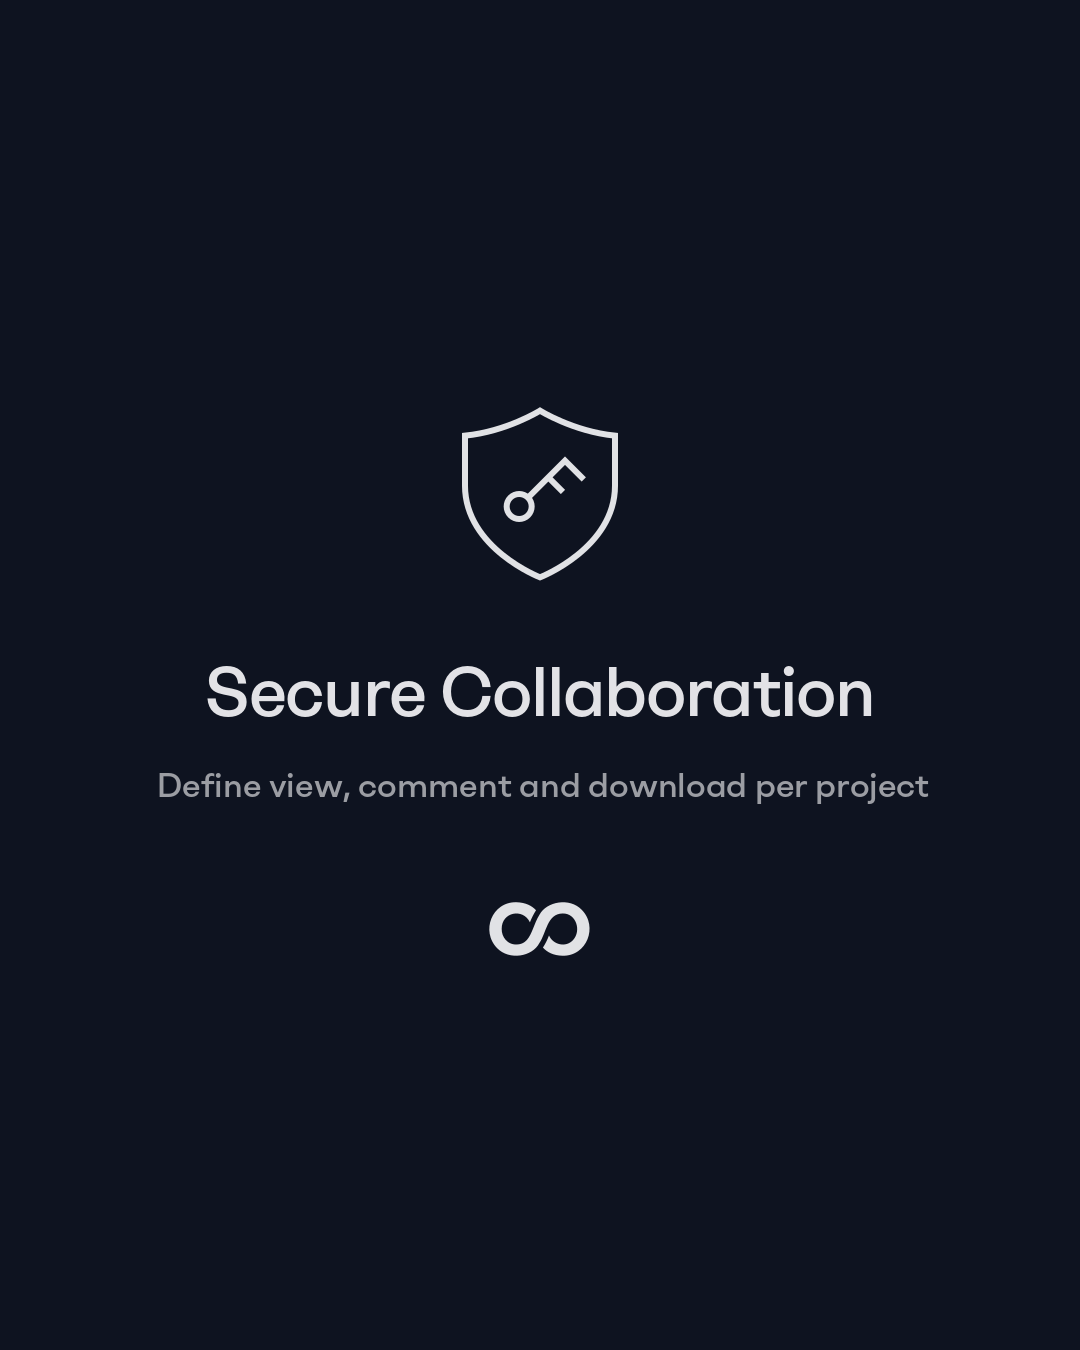
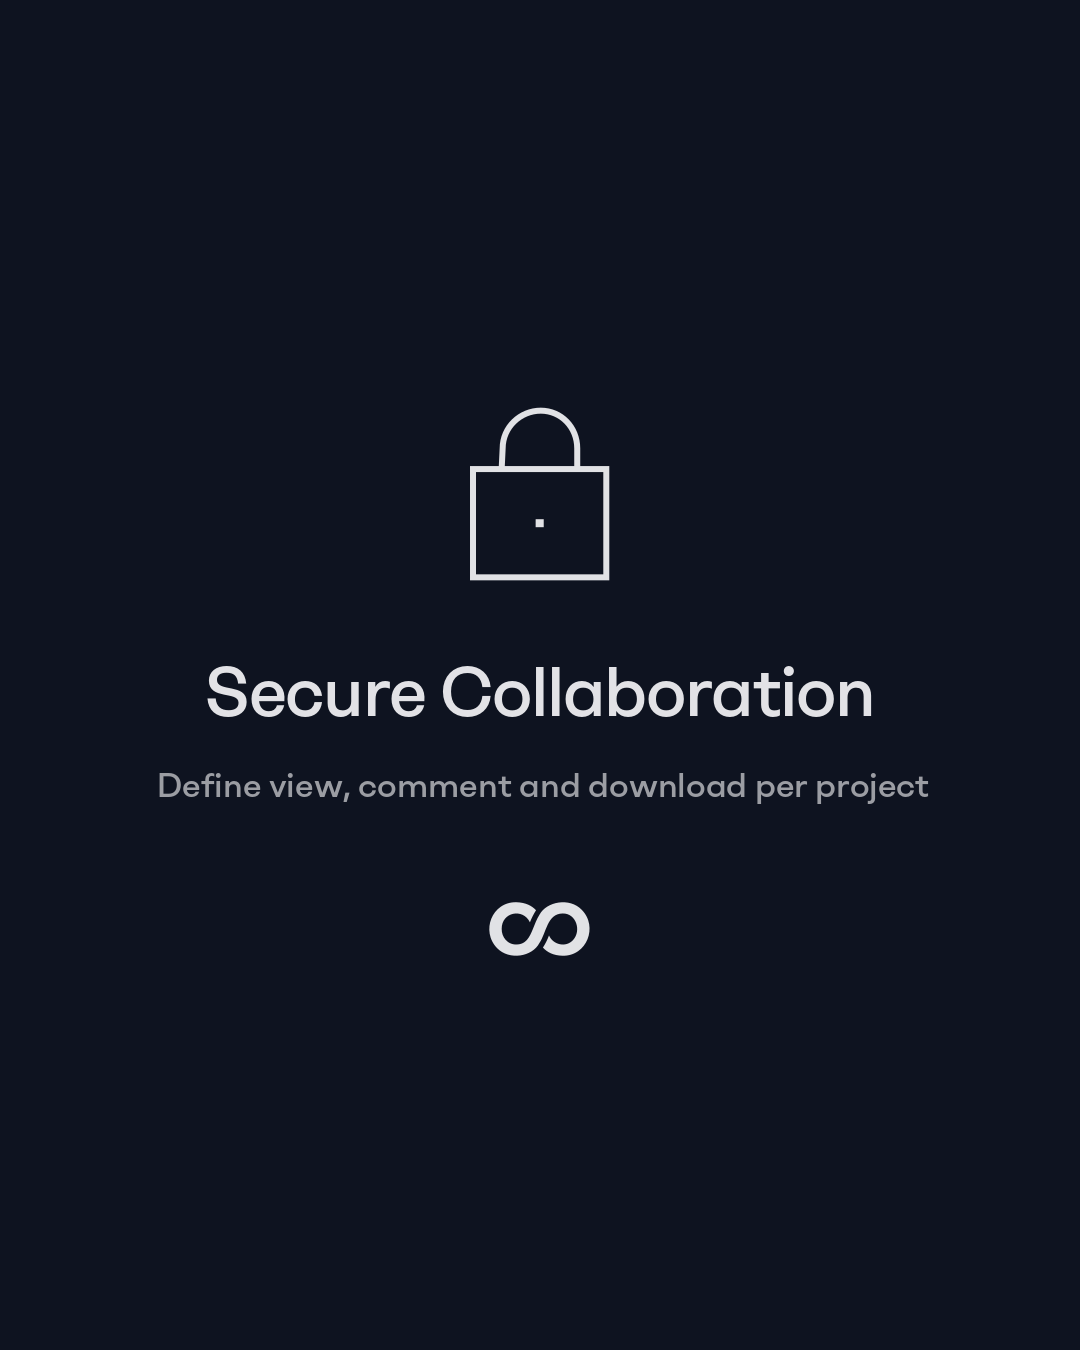
Renamed repo from quote cards to instagram cards
New: quotes + hacks

Changed region(s): [[0.4278, 0.3111, 0.5806, 0.4356], [0.4889, 0.28, 0.5194, 0.3111]]

diff --git a/README.md b/README.md
@@ -1,43 +1,55 @@
-# moodcase-quote-cards
+# moodcase-instagram-cards
 
-Public image host for moodcase Instagram voice-anchor (VA) quote cards.
+Public image host for moodcase Instagram cards — both voice-anchor (VA) quote
+cards and moodcase-hack (MH) cards.
 
-This repo exists for one reason: to give each quote-card PNG a stable public
-URL so it can be attached to a Buffer idea automatically. Buffer pulls post
-images by URL, and `raw.githubusercontent.com` serves these files directly.
+This repo exists for one reason: to give each card PNG a stable public URL so it
+can be attached to a Buffer idea automatically. Buffer pulls post images by URL,
+and `raw.githubusercontent.com` serves these files directly.
 
-**This repo is intentionally public** — it contains only finished quote-card
-images that are published to Instagram anyway. No strategy, voice, or product
-files live here. Those stay in the private `moodcase-content-hub` repo, which
-is where the cards are generated.
+**This repo is intentionally public** — it contains only finished card images
+that are published to Instagram anyway. No strategy, voice, or product files
+live here. Those stay in the private `moodcase-content-hub` repo, which is where
+the cards are generated.
 
 ## Folder convention
 
 A card's location tells you its Buffer status:
 
-- **Repo root** — a new card, generated but NOT yet pushed to Buffer.
-- **`_pushed/`** — the card has been pushed to the Buffer Idea Inbox. Once an
-  idea exists in Buffer, Buffer keeps its own copy of the image, so moving the
-  PNG here does not affect the idea.
+- **Quote cards** — repo root = staged (NOT yet pushed to Buffer); `_pushed/` =
+  already pushed to the Buffer Idea Inbox.
+- **Hack cards** — `hacks/` = staged (NOT yet pushed); `hacks/_pushed/` =
+  already pushed.
 
-The `instagram-quote-batch` task adds new cards at the root, pushes the Buffer
-idea, then moves the PNG into `_pushed/`.
+Once an idea exists in Buffer, Buffer keeps its own copy of the image, so moving
+the PNG into a `_pushed/` folder afterward does not affect the idea.
+
+The `instagram-quote-batch` task stages new quote cards (at the root), pushes the
+Buffer idea, then moves each PNG into `_pushed/`. Hack cards follow the same
+staged → pushed flow under `hacks/`.
 
 ## Contents
 
-18 quote slugs, each in two colorways:
+Each slug is produced in two colorways:
 
-- `quote-cloud-{slug}.png` — light (Cloud) variant
-- `quote-midnight-{slug}.png` — dark (Midnight) variant
+- `quote-cloud-{slug}.png` / `hack-cloud-{slug}.png` — light (Cloud) variant
+- `quote-midnight-{slug}.png` / `hack-midnight-{slug}.png` — dark (Midnight) variant
 
 ## URL pattern
 
-A card already pushed to Buffer (in `_pushed/`):
+Quote card already pushed to Buffer (in `_pushed/`):
 
 ```
-https://raw.githubusercontent.com/thez-dm/moodcase-quote-cards/main/_pushed/quote-cloud-{slug}.png
-https://raw.githubusercontent.com/thez-dm/moodcase-quote-cards/main/_pushed/quote-midnight-{slug}.png
+https://raw.githubusercontent.com/thez-dm/moodcase-instagram-cards/main/_pushed/quote-cloud-{slug}.png
+https://raw.githubusercontent.com/thez-dm/moodcase-instagram-cards/main/_pushed/quote-midnight-{slug}.png
 ```
 
-A brand-new card not yet pushed sits at the root (no `_pushed/` segment). The
-Buffer idea is created using the root URL, then the file is moved to `_pushed/`.
+A brand-new quote card not yet pushed sits at the root (no `_pushed/` segment).
+The Buffer idea is created using the root URL, then the file is moved to `_pushed/`.
+
+Hack card (staged in `hacks/`, then `hacks/_pushed/` once pushed):
+
+```
+https://raw.githubusercontent.com/thez-dm/moodcase-instagram-cards/main/hacks/hack-cloud-{slug}.png
+https://raw.githubusercontent.com/thez-dm/moodcase-instagram-cards/main/hacks/hack-midnight-{slug}.png
+```